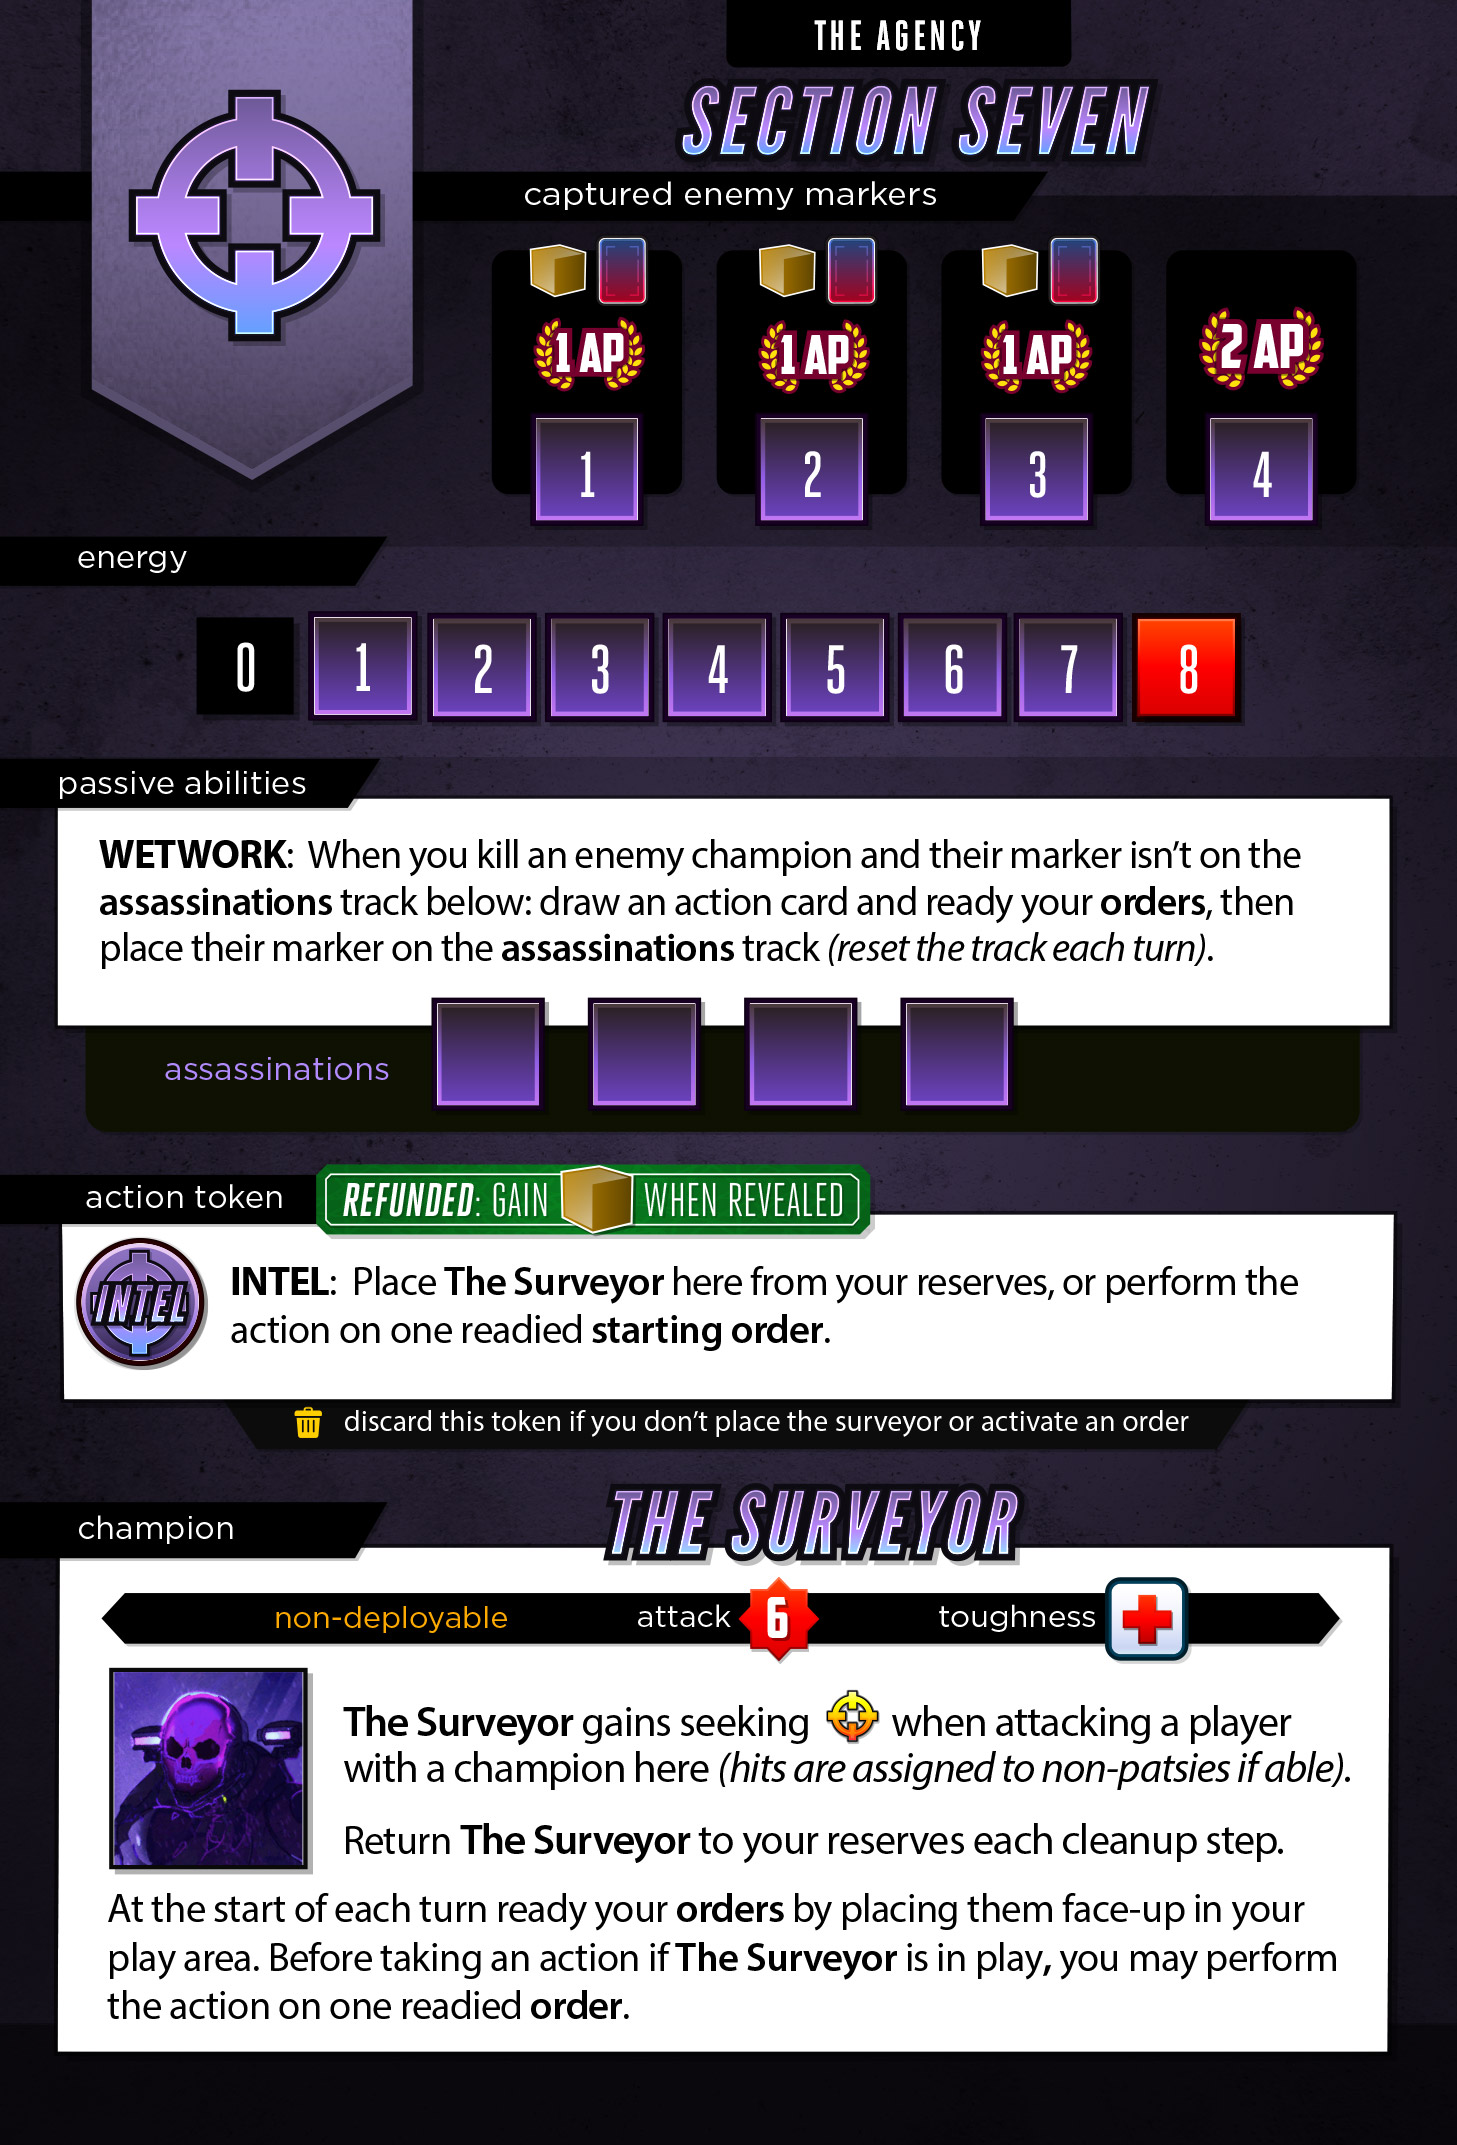
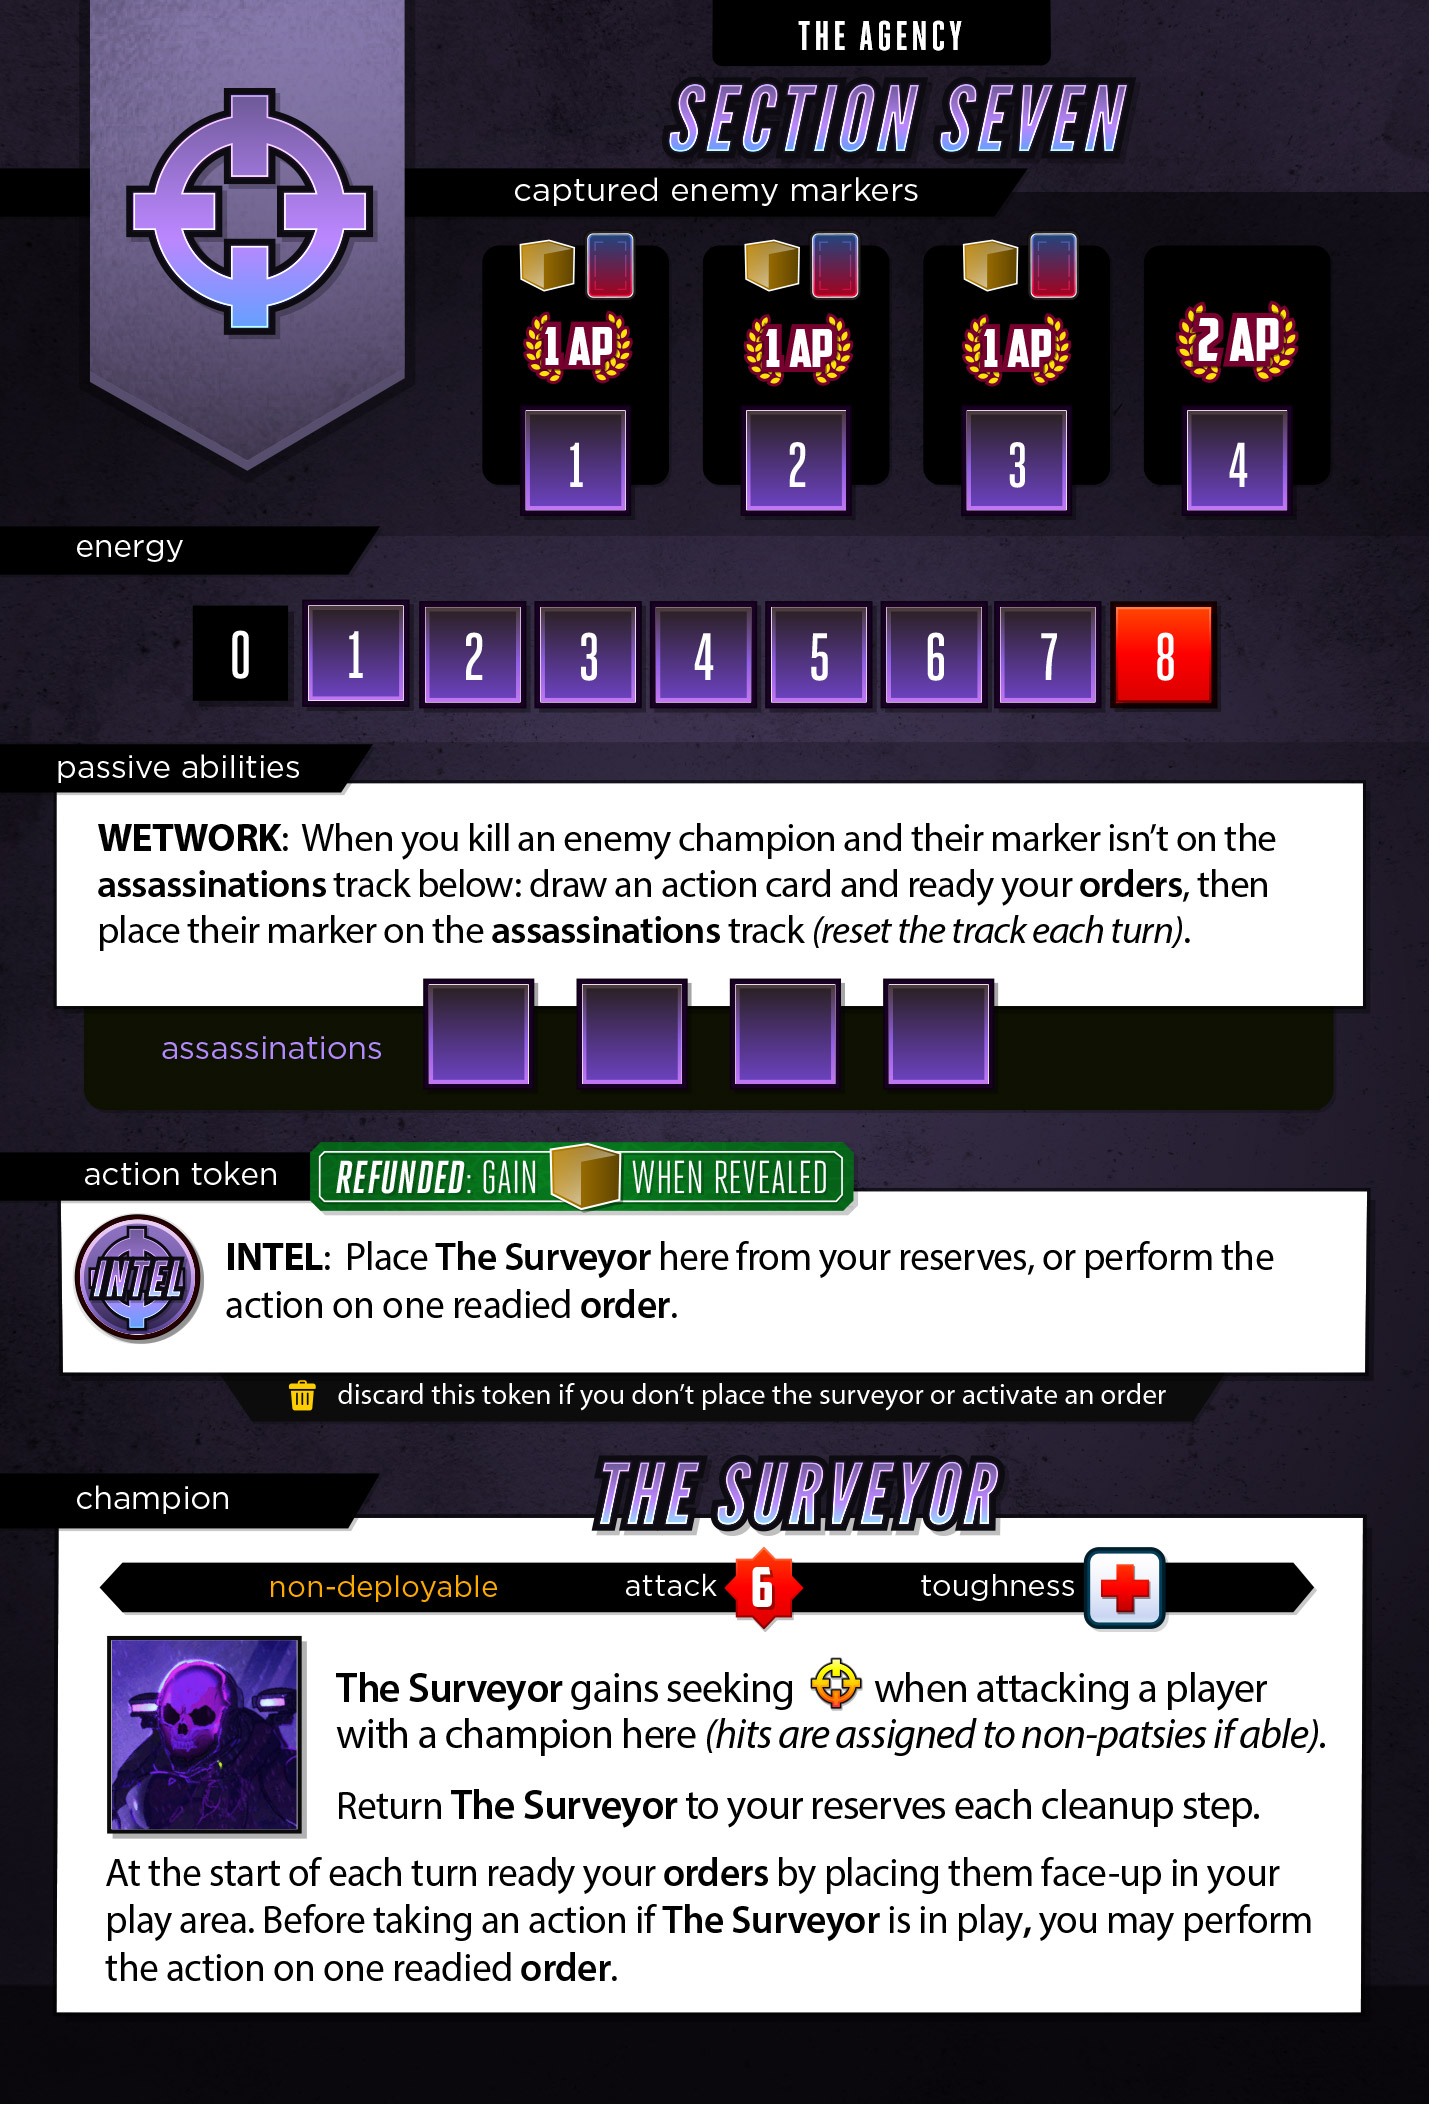
Let intel trigger advanced orders

diff --git a/server/classes/factions/Agency.js b/server/classes/factions/Agency.js
@@ -561,7 +561,7 @@ class Agency extends Faction {
         if( !unit.location ){
             await this.placeSurveyor( unit, area );
         } else {
-            await this.surveyorAction( { startingOnly : true } );
+            await this.surveyorAction( { startingOnly : false } );
         }
 
         this.game().advancePlayer();
